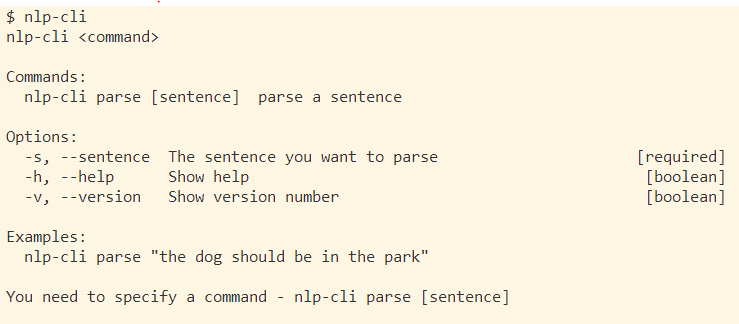
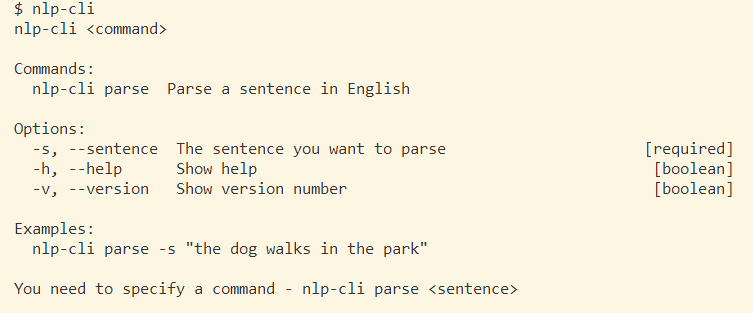
Support fot conjunction and update docs

diff --git a/src/grammar/dictionary/default.ts b/src/grammar/dictionary/default.ts
@@ -1,5 +1,5 @@
-const nouns: string[] = ['man', 'balrog', 'pencil' ,'phone' ,'computer' ,'chair' ,'table' ,'carpet' ,'bookshelf' ,'lamp' ,'clock' ,'window' ,'cat' ,'dog' ,'horse' ,'bird' ,'fish' ,'snake' ,'rabbit' ,'elephant' ,'squirrel' ,'fox' ,'freedom' ,'creativity' ,'confidence' ,'curiosity' ,'honesty' ,'intelligence' ,'loyalty' ,'respect' ,'success' ,'trust' ,'joy' ,'love' ,'fear' ,'anger' ,'sadness' ,'surprise' ,'compassion' ,'excitement' ,'happiness' ,'peace' ,'patience' ,'generosity' ,'kindness' ,'integrity' ,'courage' ,'humility' ,'diligence' ,'honesty' ,'selflessness' ,'tolerance', 'park']
-const verbs: string[] = ['walk', 'walks', 'be', 'is', 'are', 'become', 'becomes', 'say', 'says', 'wander', 'wanders', 'choose', 'chooses', 'read', 'reads', 'see', 'saw']
+const nouns: string[] = ['Moria', 'depts', 'man', 'balrog', 'pencil' ,'phone' ,'computer' ,'chair' ,'table' ,'carpet' ,'bookshelf' ,'lamp' ,'clock' ,'window' ,'cat' ,'dog' ,'horse' ,'bird' ,'fish' ,'snake' ,'rabbit' ,'elephant' ,'squirrel' ,'fox' ,'freedom' ,'creativity' ,'confidence' ,'curiosity' ,'honesty' ,'intelligence' ,'loyalty' ,'respect' ,'success' ,'trust' ,'joy' ,'love' ,'fear' ,'anger' ,'sadness' ,'surprise' ,'compassion' ,'excitement' ,'happiness' ,'peace' ,'patience' ,'generosity' ,'kindness' ,'integrity' ,'courage' ,'humility' ,'diligence' ,'honesty' ,'selflessness' ,'tolerance', 'park']
+const verbs: string[] = ['pass', 'walk', 'walks', 'sleeps', 'be', 'is', 'are', 'become', 'becomes', 'say', 'says', 'wander', 'wanders', 'choose', 'chooses', 'read', 'reads', 'see', 'saw']
 const modalVerbs: string[] = ['shall', 'should', 'can', 'could', 'will', 'would', 'may', 'must', 'might', 'must']
 const determiners: string[] = ['a', 'an', 'the']
 const conjunctions: string[] = ['not', 'and']

diff --git a/src/grammar/rules/ModalVerbPhrase.ts b/src/grammar/rules/ModalVerbPhrase.ts
@@ -1,5 +1,6 @@
 import Rule from './Rule'
 import ModalVerb from './ModalVerb'
+import Conjunction from './Conjunction'
 import { Token } from '../../token'
 import VerbPhraseRule from './VerbPhraseRule'
 
@@ -10,6 +11,7 @@ import VerbPhraseRule from './VerbPhraseRule'
 class ModalVerbPhrase extends Rule {
     modalVerb: Token
     verbPhrase: Token
+    conjunction: Token
 
     constructor (tokens: Token[]) {
         super()
@@ -19,7 +21,7 @@ class ModalVerbPhrase extends Rule {
         for (const token of tokens) {
             if (ModalVerb.isModalVerbInstance(token)) this.modalVerb = token
             if (VerbPhraseRule.isVerbPhraseInstance(token)) this.verbPhrase = token
-
+            if (Conjunction.isConjunctionInstance(token)) this.conjunction = token
         }
     }
 
@@ -28,11 +30,12 @@ class ModalVerbPhrase extends Rule {
      * @param token The token that will be checked.
      */
     static isModalVerbPhrase (tokens: Token[]) {
-        if (!this.isCorrectLength(tokens.length, 0, 2)) return false
+        if (!this.isCorrectLength(tokens.length, 0, 3)) return false
 
-        const [ tokenA, tokenB ] = tokens
-        return (ModalVerb.isModalVerbInstance(tokenA) && VerbPhraseRule.isVerbPhraseInstance(tokenB))
+        const [ tokenA, tokenB, tokenC ] = tokens
 
+        if (tokens.length === 2) return (ModalVerb.isModalVerbInstance(tokenA) && VerbPhraseRule.isVerbPhraseInstance(tokenB))
+        return (ModalVerb.isModalVerbInstance(tokenA) && Conjunction.isConjunctionInstance(tokenB) && VerbPhraseRule.isVerbPhraseInstance(tokenC))
     }
 
     static isModalVerbPhraseInstance (token: Token) {

diff --git a/src/grammar/rules/Conjunction.ts b/src/grammar/rules/Conjunction.ts
@@ -1,0 +1,33 @@
+import dictionary from '../dictionary/dictionary'
+import { Token } from '../../token'
+import Rule from './Rule'
+
+const conjunction = dictionary.conjunctions
+
+/**
+ * @class Conjunction
+ * These are the production rules for conjunction.
+ */
+class Conjunction extends Rule {
+    value: string
+
+    constructor (value: string) {
+        super()
+        this.type = 'Conjunction'
+        this.value = value
+    }
+
+    /**
+     * Determines if a token is a conjunction by checking if it exists in the dictionary.
+     * @param token A string token.
+     */
+    static isConjunction (token: Token): boolean {
+        return conjunction.indexOf(<string>token) > -1
+    }
+
+    static isConjunctionInstance (token: Token): boolean {
+        return token instanceof Conjunction
+    }
+}
+
+export default Conjunction

diff --git a/index.ts b/index.ts
@@ -6,8 +6,8 @@ import Parser from './parser'
 yargs(process.argv.slice(2))
   .scriptName('nlp-cli')
   .command(
-    'parse [sentence]',
-    'parse a sentence',
+    'parse',
+    'Parse a sentence in English',
     function (yargs) {
       return yargs.option('sentence')
     },
@@ -26,11 +26,11 @@ yargs(process.argv.slice(2))
     }
   )
   .describe('s', 'The sentence you want to parse')
-  .example('nlp-cli parse "the dog should be in the park"')
+  .example('nlp-cli parse -s "the dog walks in the park"')
   .alias('s', 'sentence')
   .alias('h', 'help')
   .alias('v', 'version')
-  .demandCommand(1, 'You need to specify a command - nlp-cli parse [sentence]')
+  .demandCommand(1, 'You need to specify a command - nlp-cli parse <sentence>')
   .demandOption('sentence', 'Please pass a text to parse!')
   .help()
   .argv

diff --git a/parser.ts b/parser.ts
@@ -12,6 +12,7 @@ import { Tokenizer } from './src/tokenizer'
 import Rule from './src/grammar/rules/Rule'
 import ModalVerb from './src/grammar/rules/ModalVerb'
 import ModalVerbPhrase from './src/grammar/rules/ModalVerbPhrase'
+import Conjunction from './src/grammar/rules/Conjunction'
 
 /**
  * @class Parser
@@ -30,6 +31,7 @@ class Parser {
      */
     isTerminalSymbol (token: Token): Token | undefined {
         if (Determiner.isDeterminer(token)) return new Determiner(<string>token)
+        if (Conjunction.isConjunction(token)) return new Conjunction(<string>token)
         if (Noun.isNoun(token)) return new Noun(<string>token)
         if (Verb.isVerb(token)) return new Verb(<string>token)
         if (Preposition.isPreposition(token)) return new Preposition(token)

diff --git a/README.md b/README.md
@@ -5,7 +5,7 @@ The purpose of this tool is to create an [AST](https://en.wikipedia.org/wiki/Abs
 
 # Structure
 
-The language grammar rules are defined in [grammar/BNF.txt](https://github.com/venetak/natural-language-parser/blob/main/src/grammar/BNF.txt) - it is in [Backus–Naur form](https://en.wikipedia.org/wiki/Backus%E2%80%93Naur_form). The actual implementation is an Object Oriented approach using TypeScript classes.
+The rules that describe the language grammar are defined in [grammar/BNF.txt](https://github.com/venetak/natural-language-parser/blob/main/src/grammar/BNF.txt) - using the [Backus–Naur metasyntax](https://en.wikipedia.org/wiki/Backus%E2%80%93Naur_form). The actual implementation utilizes OOP principals using TypeScript classes.
 
 # Usage
 ## Setup
@@ -51,7 +51,7 @@ Use the `toHumanReadableJSON` function to create a JSON:
 const parsed = parser.parse('the dog is in the park')
 console.log(parsed.toHumanReadableJSON())
 ```
-outpus a JSON object with simplified structure:
+outputs a JSON object with simplified structure:
 ```json
 {
   "VerbPhrase": {
@@ -68,6 +68,32 @@ outpus a JSON object with simplified structure:
       "noun": "park"
     }
   }
+}
+```
+
+## CLI
+
+Use the `nlp-cli` command to parse a sentence:
+
+![cli usage](https://github.com/venetak/natural-language-parser/blob/main/img/cli.PNG?raw=true)
+
+` nlp-cli parse -s "the balrog sleeps in Moria"`
+
+will produce:
+
+```json
+{
+    "VerbPhrase": {
+        "VerbPhrase": {
+            "NounPhrase": {
+                "determiner": "the",
+                "noun": "balrog"
+            },
+            "verb": "sleeps"
+        },
+        "preposition": "in",
+        "noun": "Moria"
+    }
 }
 ```
 
